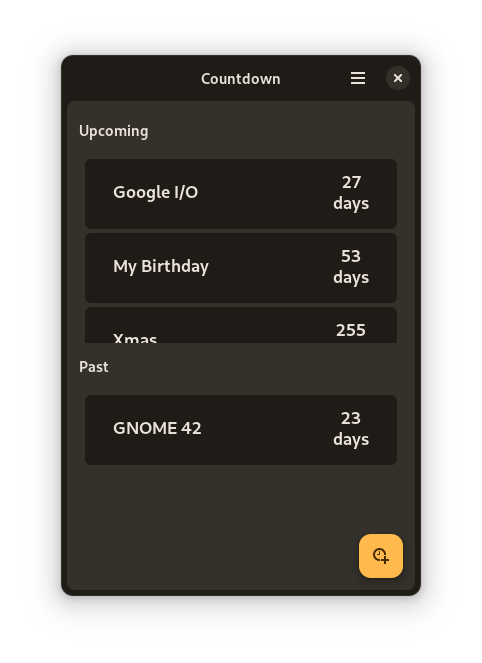
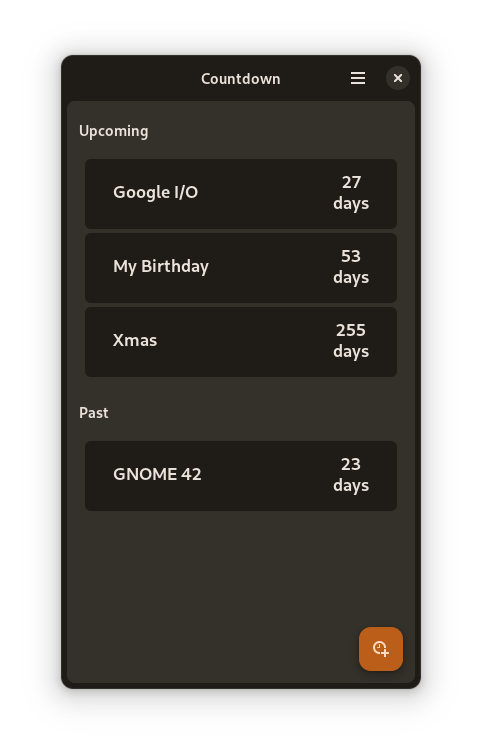
First

diff --git a/src/style.css b/src/style.css
@@ -1,6 +1,6 @@
-@define-color accent_color #914c00;
-@define-color accent_bg_color #ffb94d;
-@define-color accent_fg_color #ffffff;
+@define-color accent_color #9a4600;
+@define-color accent_bg_color #fa904a;
+@define-color accent_fg_color #331200;
 @define-color window_bg_color #faeee7;
 @define-color view_bg_color #fff8f4;
 @define-color headerbar_bg_color #faeee7;

diff --git a/src/style-dark.css b/src/style-dark.css
@@ -1,6 +1,6 @@
 @define-color accent_color #ffba4b;
-@define-color accent_bg_color #ffb94d;
-@define-color accent_fg_color #452b00;
+@define-color accent_bg_color #ba5e1a;
+@define-color accent_fg_color #ffdbc6;
 @define-color window_bg_color #1f1b16;
 @define-color view_bg_color #34302a;
 @define-color headerbar_bg_color #1f1b16;
